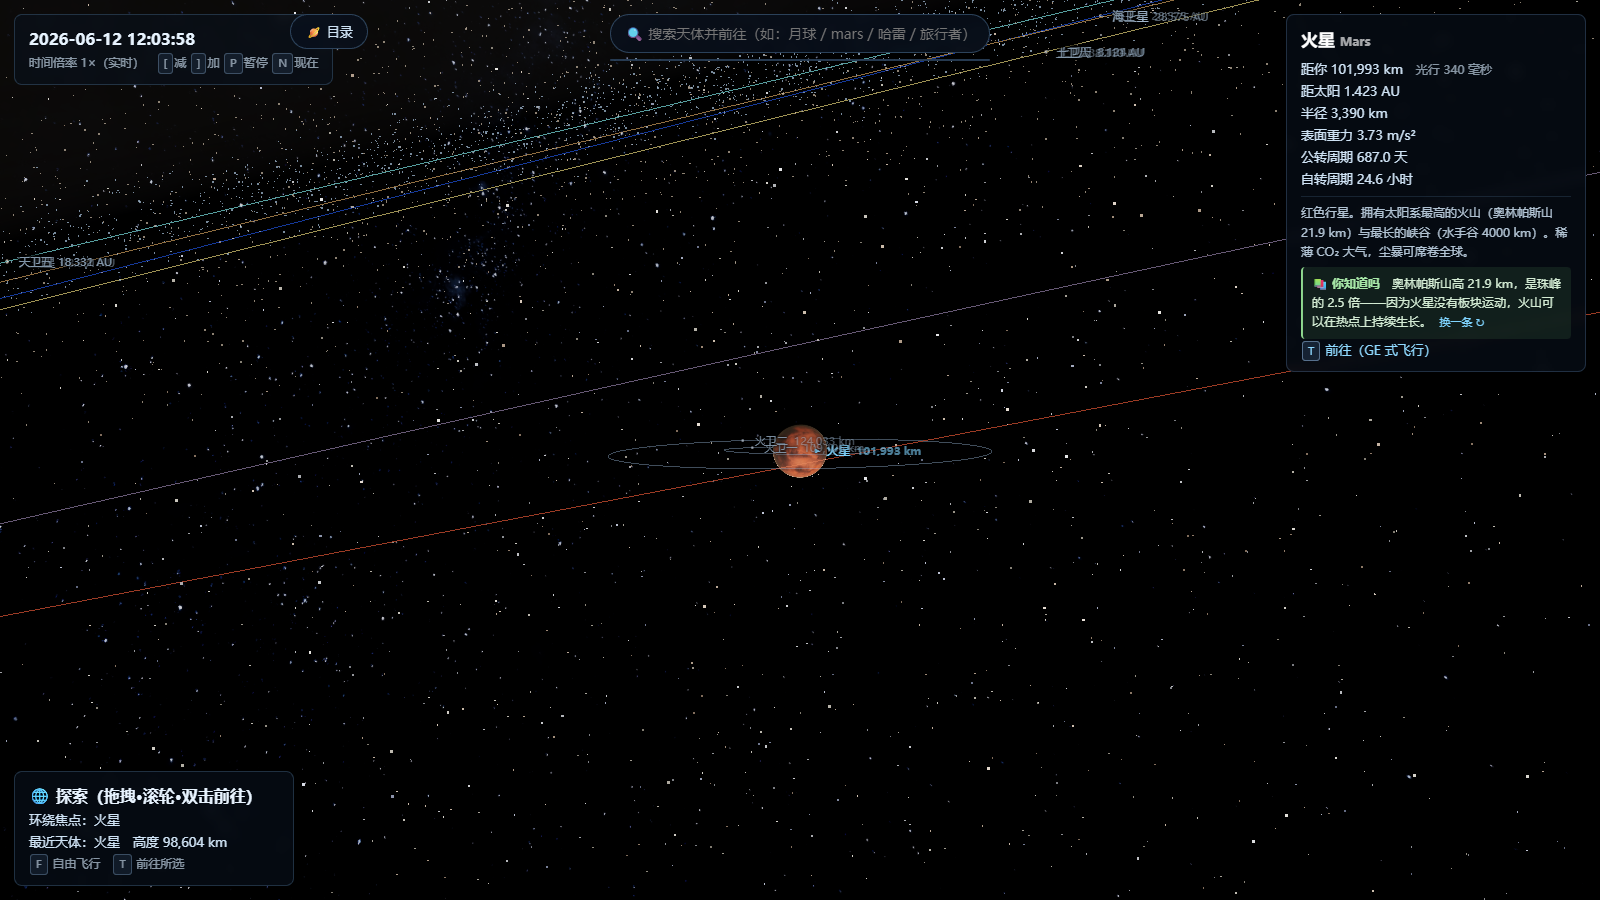
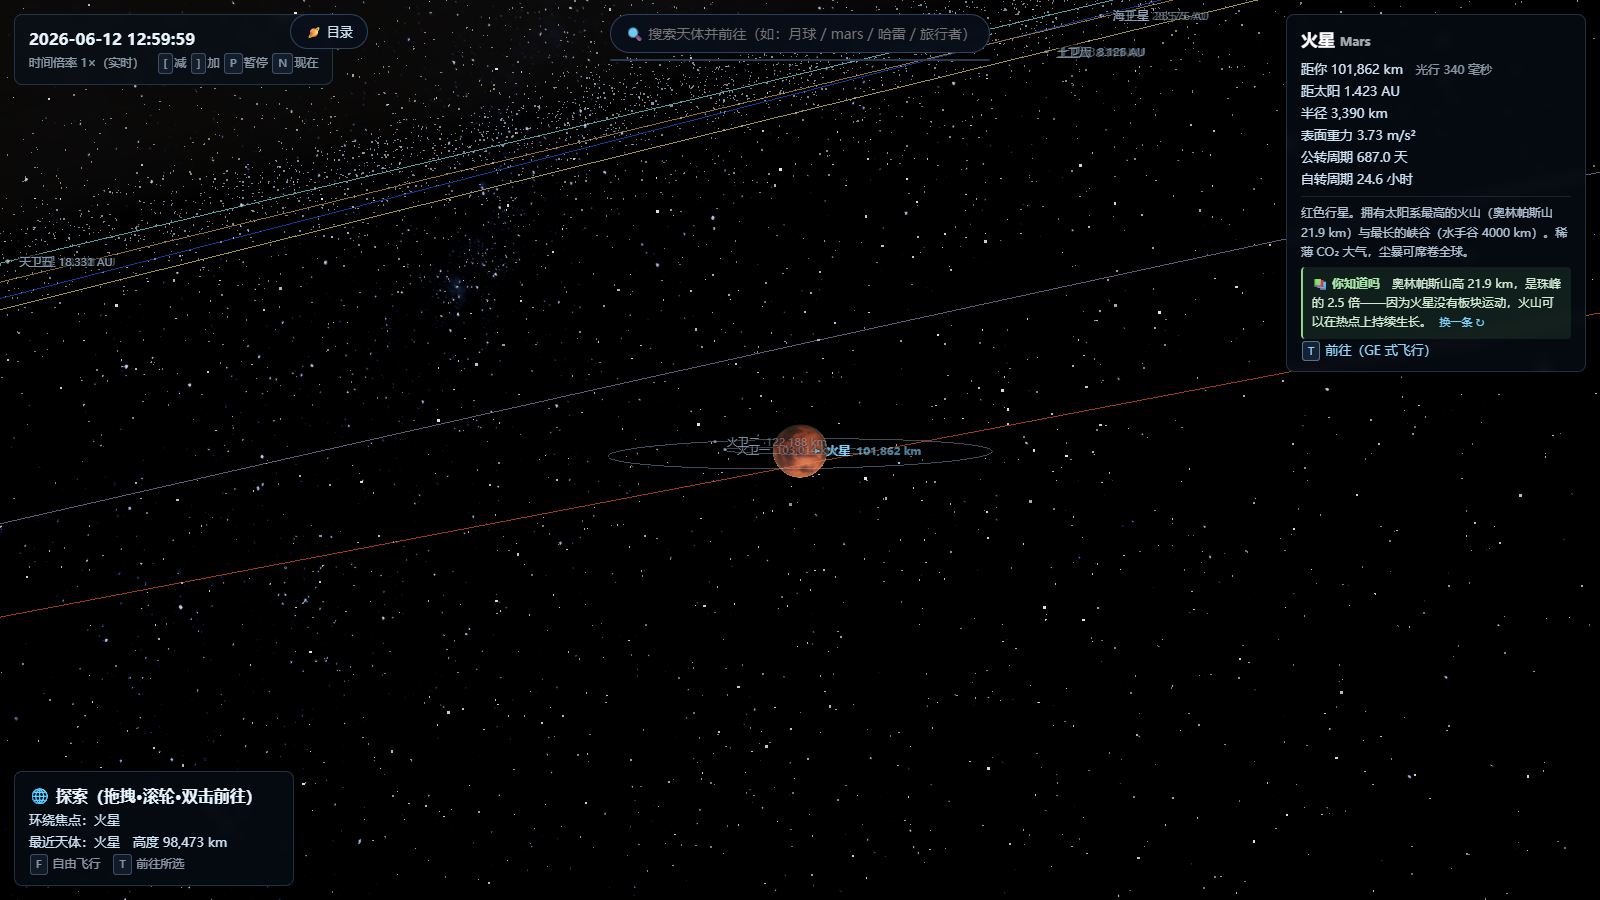
UI: 移除顶部搜索框，目录移至时间框下方左对齐并默认展开
- 删除 #search-box 及相关 CSS/JS（buildSearch 已移除）
- 新增 #left-col flex 列容器，将时间框和目录纵向堆叠（left:14px）
- 目录默认带 open class 展开；折叠/展开点击 .dir-head，保证
  标题始终可见（dir-body 收起而非整体 display:none）
- 帮助对话框操作说明同步更新

diff --git a/src/style.css b/src/style.css
@@ -47,7 +47,7 @@ html, body {
   line-height: 1.7;
   backdrop-filter: blur(6px);
 }
-#hud-time { top: 14px; left: 14px; min-width: 260px; }
+#hud-time { min-width: 240px; }
 #hud-nav { bottom: 14px; left: 14px; min-width: 280px; }
 #hud-target { top: 14px; right: 14px; width: 300px; }
 #hud-tip {
@@ -89,50 +89,34 @@ html, body {
 }
 .fact-next:hover { text-decoration: underline; }
 
-/* ---------- 搜索框（Google Earth 式） ---------- */
-#search-box {
-  position: fixed; top: 14px; left: 50%; transform: translateX(-50%);
-  width: 380px; z-index: 20;
+/* ---------- 左侧列（时间框 + 目录） ---------- */
+#left-col {
+  position: fixed; top: 14px; left: 14px; z-index: 20;
+  width: 260px; display: flex; flex-direction: column; gap: 8px;
+  max-height: calc(100vh - 130px);
+  pointer-events: none;
 }
-#search-input {
-  width: 100%; padding: 9px 14px; font-size: 14px; font-family: inherit;
-  background: rgba(8, 16, 28, 0.78); color: #e8f4ff;
-  border: 1px solid rgba(110, 160, 210, 0.35); border-radius: 22px;
-  outline: none; backdrop-filter: blur(6px);
+#left-col .panel {
+  position: static;
+  pointer-events: auto;
 }
-#search-input:focus { border-color: #5fa8e0; }
-#search-results {
-  margin-top: 6px; border-radius: 10px; overflow: hidden;
-  background: rgba(8, 16, 28, 0.92); border: 1px solid rgba(110, 160, 210, 0.3);
-}
-.search-item {
-  padding: 8px 14px; cursor: pointer; font-size: 13px; color: #cfe3f5;
-  display: flex; gap: 8px; align-items: baseline;
-}
-.search-item span { opacity: 0.55; font-size: 12px; }
-.search-item em { margin-left: auto; font-style: normal; font-size: 11px; color: #6f96bc; }
-.search-item:hover, .search-item.active { background: rgba(60, 110, 170, 0.35); }
 
 /* ---------- 天体目录 ---------- */
-#dir-toggle {
-  position: fixed; top: 14px; left: 290px; z-index: 21;
-  padding: 8px 14px; cursor: pointer; font-family: inherit; font-size: 13px;
-  background: rgba(8, 16, 28, 0.78); color: #cfe3f5;
-  border: 1px solid rgba(110, 160, 210, 0.35); border-radius: 18px;
-  backdrop-filter: blur(6px);
-}
-#dir-toggle:hover { border-color: #5fa8e0; }
 #directory {
-  position: fixed; top: 56px; left: 14px; bottom: 110px; width: 250px; z-index: 19;
+  width: 260px;
   background: rgba(8, 16, 28, 0.82); border: 1px solid rgba(110, 160, 210, 0.28);
   border-radius: 10px; backdrop-filter: blur(8px);
-  display: none; flex-direction: column;
+  display: flex; flex-direction: column;
+  min-height: 0; pointer-events: auto;
 }
-#directory.open { display: flex; }
+#dir-body { display: none; }
+#directory.open #dir-body { display: flex; flex-direction: column; }
 .dir-head {
   padding: 10px 14px; font-size: 14px; font-weight: bold; color: #e8f4ff;
   border-bottom: 1px solid rgba(110, 160, 210, 0.2);
+  cursor: pointer; user-select: none;
 }
+.dir-head:hover { background: rgba(60, 110, 170, 0.15); border-radius: 10px 10px 0 0; }
 #dir-body { overflow-y: auto; padding: 6px 8px; flex: 1; }
 #dir-body details { margin-bottom: 4px; }
 #dir-body summary {

diff --git a/index.html b/index.html
@@ -14,19 +14,15 @@
 
   <div id="labels"></div>
 
-  <div id="search-box" style="display:none">
-    <input id="search-input" type="text" placeholder="🔍 搜索天体并前往（如：月球 / mars / 哈雷 / 旅行者）" autocomplete="off" />
-    <div id="search-results"></div>
-  </div>
-
-  <button id="dir-toggle" title="天体目录">🪐 目录</button>
-  <div id="directory">
-    <div class="dir-head">天体目录 <span class="dim">点击即前往</span></div>
-    <div id="dir-body"></div>
+  <div id="left-col">
+    <div id="hud-time" class="panel"></div>
+    <div id="directory" class="open">
+      <div class="dir-head">🪐 天体目录 <span class="dim">点击即前往</span></div>
+      <div id="dir-body"></div>
+    </div>
   </div>
 
   <div id="hud">
-    <div id="hud-time" class="panel"></div>
     <div id="hud-nav" class="panel"></div>
     <div id="hud-target" class="panel"></div>
     <div id="hud-tip"></div>
@@ -61,7 +57,7 @@
             <tr><td>滚轮拉近到底</td><td><b>无缝降落地表</b>（自动转入行走）；海洋默认降落水面</td></tr>
             <tr><td>V</td><td>惯性观察模式（相机不随自转 · 配合时间加速看卫星绕转）</td></tr>
             <tr><td>R</td><td>复位视角（北朝上、俯视）</td></tr>
-            <tr><td>顶部搜索框 / 🪐 目录</td><td>输入或点选天体 → 飞行动画前往</td></tr>
+            <tr><td>🪐 天体目录</td><td>点选天体 → 飞行动画前往（左侧，默认展开）</td></tr>
             <tr><td>双击标签 / T / 1–9,0</td><td>GE 式动态前往（目标居中）</td></tr>
             <tr><td>拖拽（飞行中）</td><td>中断飞行动画</td></tr>
             <tr><td>G</td><td>贴近地表时登陆行走</td></tr>

diff --git a/src/ui/search.js b/src/ui/search.js
@@ -11,7 +11,6 @@ export class SearchUI {
     this.registry = registry;
     this.onGo = onGo;
     this.opts = opts;
-    this.buildSearch();
     this.buildDirectory();
   }
 
@@ -95,8 +94,8 @@ export class SearchUI {
 
   buildDirectory() {
     const panel = document.getElementById('directory');
-    const toggle = document.getElementById('dir-toggle');
-    toggle.addEventListener('click', () => {
+    const head = panel.querySelector('.dir-head');
+    head.addEventListener('click', () => {
       panel.classList.toggle('open');
     });
 
